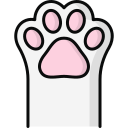
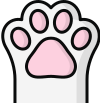
좋아요 버튼 클릭시 이미지 변경

diff --git a/client/src/components/feed/pages/MainFeed.js b/client/src/components/feed/pages/MainFeed.js
@@ -12,6 +12,7 @@ const MainFeed = () => {
     const SESSION_ID = 1;
     const [posts, setPosts] = useState({});
     const [isLoading, setIsLoading] = useState(false);
+    // const [isLiked, setIsLiked] = useState()
         const getFollowersFeed = async() => {
         await axios({
           method: "GET",
@@ -46,8 +47,7 @@ const MainFeed = () => {
         })
         .then((likeResult) => {
             console.log(likeResult);
-
-            getFollowersFeed();
+            
           })
           .catch((err) => {
               console.log(err);
@@ -60,7 +60,7 @@ const MainFeed = () => {
             isLoading &&
             posts.map((post)=>{
                 return(
-                    <div className="postBox">
+                    <div className="postBox" key={post.id}>
                     <div className="userInfo">
                         <span className="userImage">
                             <img src={post.User.image} alt="팔로잉 유저 프로필" />
@@ -77,7 +77,11 @@ const MainFeed = () => {
                             })}  */}
                         </div>
                         <div className="postReaction">
-                            <button onClick={()=>handleLikeClick(post.id)}><img src={paw} alt="like" className="like"/></button>
+                            <button onClick={()=>handleLikeClick(post.id)}>
+                                <img src={
+                                    post.Hearts.length===0 ? emptyPaw : paw
+                                } alt="like" className="like"/>
+                            </button>
                             <button><img src={reply} alt="like" className="like"/></button>
                             <button><img src={message} alt="like" className="like"/></button>
                         </div>

diff --git a/client/src/components/css/mainFeed.css b/client/src/components/css/mainFeed.css
@@ -57,3 +57,4 @@
 .postContent{
     margin-top: 20px;
 }
+
